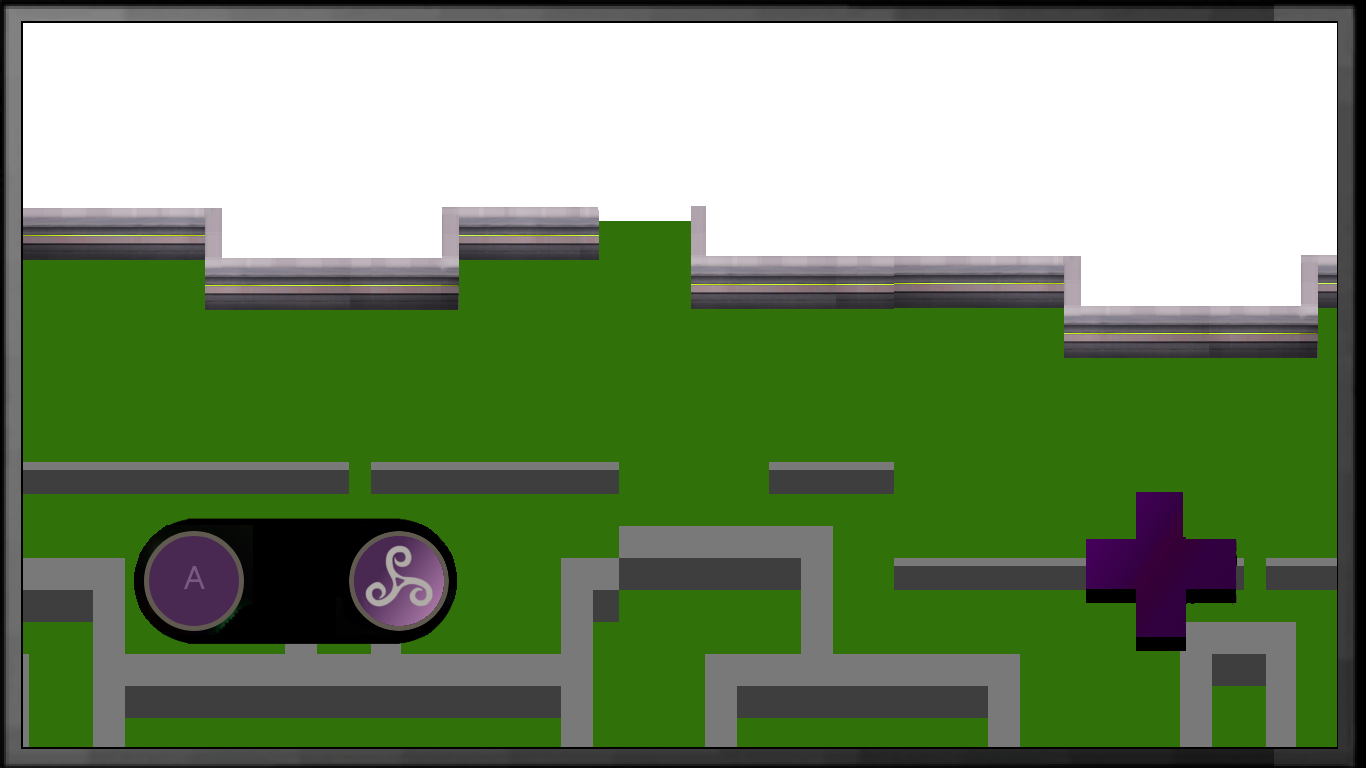
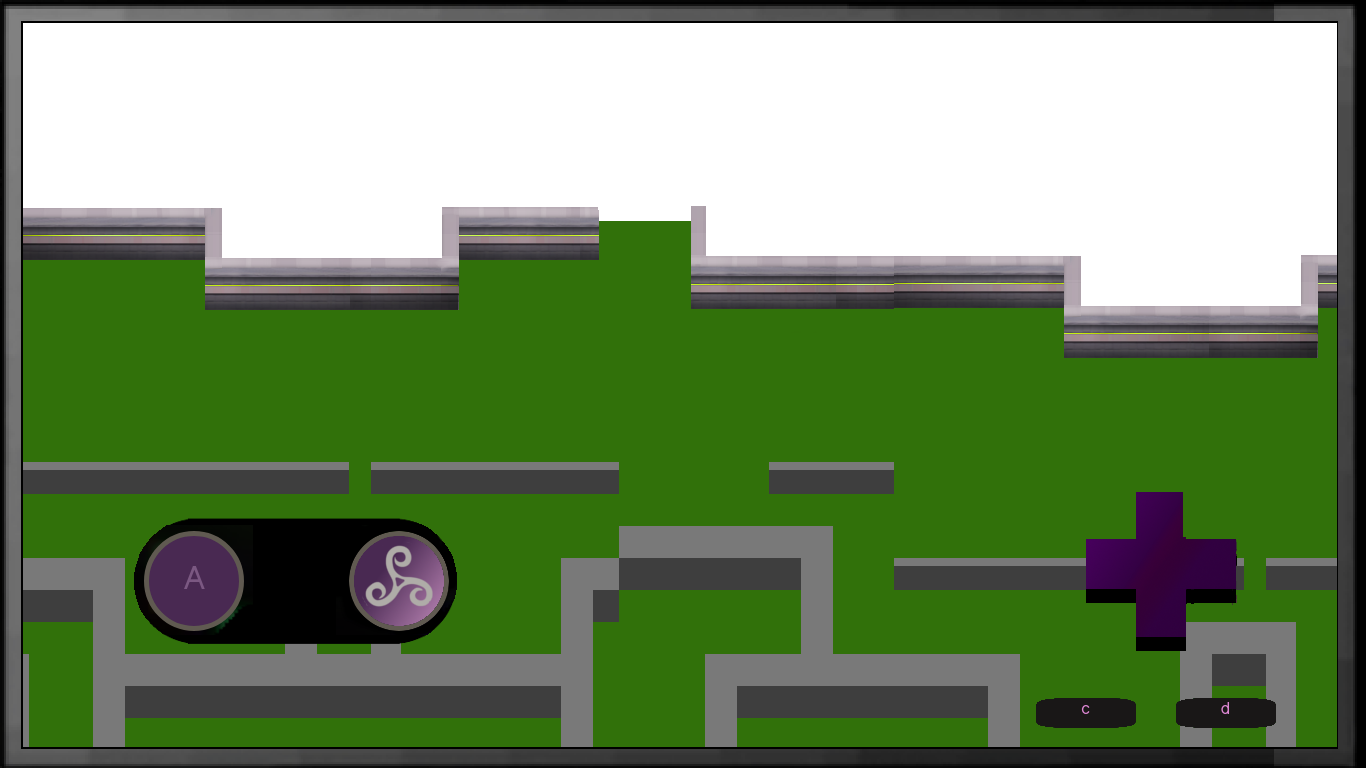
Add shop btn to work.html.

Changed region(s): [[0.8609, 0.9062, 0.9531, 0.9688], [0.7379, 0.9062, 0.8302, 0.9688]]

diff --git a/work.html b/work.html
@@ -112,18 +112,18 @@
         <!-- <a href="#">See project on GitHub</a> -->
       </div>
 
-      <div class="grid__item">
+      <div class="grid__item" id="merchandise">
+        
         <video autoplay muted loop id="collider-vid">
           <source src="./vids/collide.mp4" type="video/mp4">
         </video>        
-    
         <h2>Siopa</h2>
         <p>
-          Merchendise!
+          Merchandise!
         </p>
         <a href="#">See project on GitHub</a>
       </div>
-
+      <!-- <div id="merch-poster"></div> -->
       <div class="grid__item">
        <img id="ciaroga-img" src="./img/25.png" alt="digital landscape" height="411px" width="206px">
         <h2>Ciaróga</h2>

diff --git a/js/script.js b/js/script.js
@@ -14,6 +14,23 @@ $(document).ready(function () {
 		console.log('out')
 		$('#banba-vid').attr('src', './vids/banba.mp4')
 	});
+
+
+	$(".merch").mouseover(function () {
+		// alert();
+		console.log('in')
+		$('#merch-poster').fadeIn()
+	});
+
+
+
+	$(".merch").mouseleave(function () {
+		console.log('out')
+		$('#merch-poster').fadeOut()
+
+	});
+
+
 	$(".geaga").mouseover(function () {
 		console.log('in')
 		// $('#geaga').attr('src', './img/countZero2.png')

diff --git a/css/styles.css b/css/styles.css
@@ -37,11 +37,21 @@ body {
   font-size: var(--font-size);
   line-height: var(--line-height);
 }
+#merch-poster{
+  height:206px;
+  z-index: 206;
+  width:411px;
+  /* background-image: url('../img/merch.png'); */
+  position: fixed;
+}
 
-
-
+#merchandise{
+  /* background-image:url('../img/merch.png');` */
+}
 #banba{
+
   background-image:url('../img/banba-poster.png');
+
 }
 #banba-vid, #collider-vid{
   justify-content: center;
